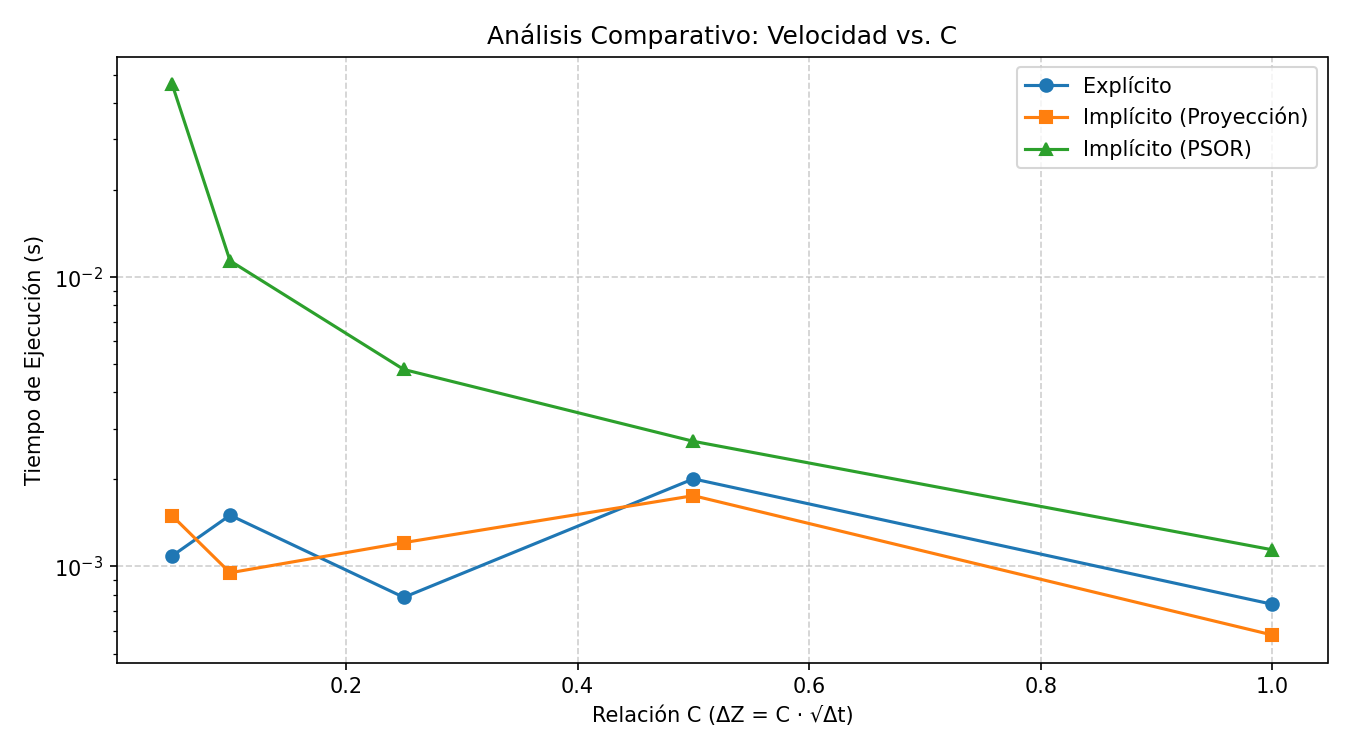
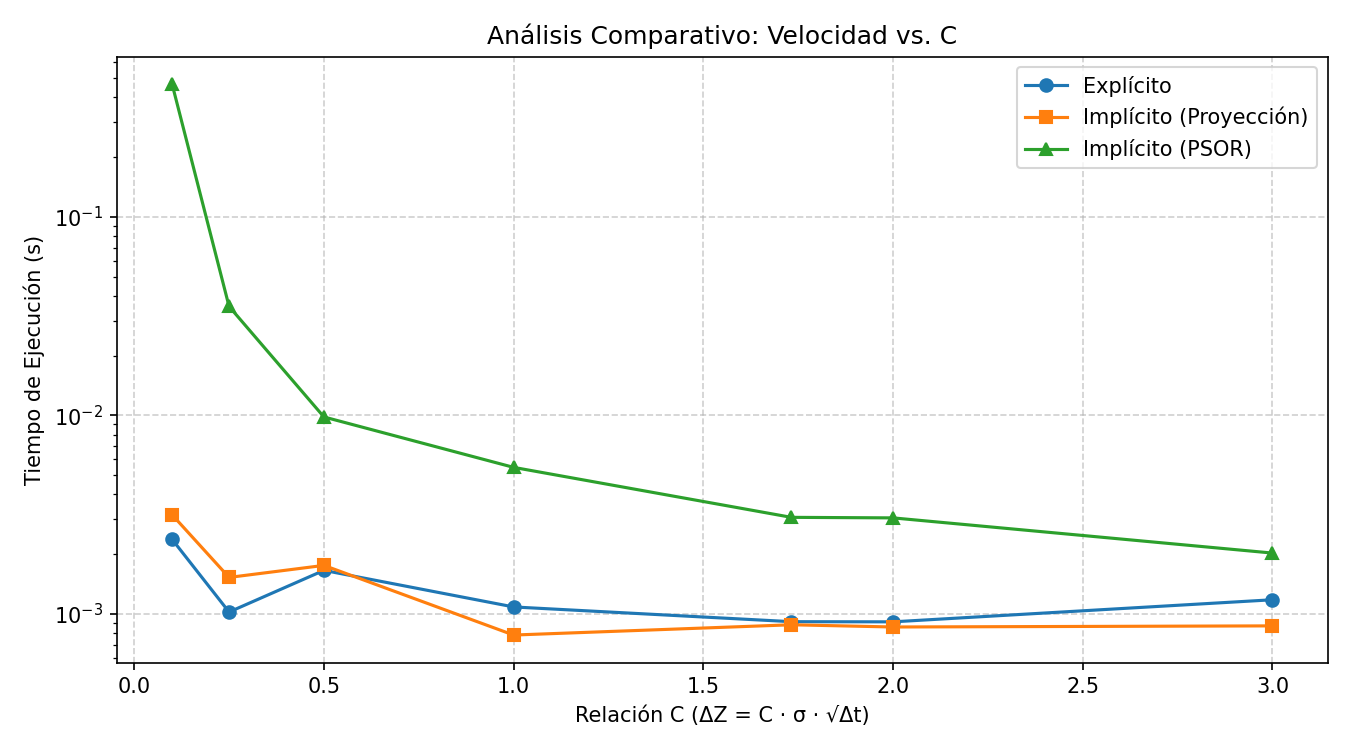
no fue el last commit

diff --git a/app.py b/app.py
@@ -82,6 +82,20 @@ def _domain_from_L(K, sigma, T, L):
     xmax = math.log(K) + L * sigma * math.sqrt(T)
     return xmin, xmax
 
+def _estimate_M_for_C(T, sigma, L, N, C):
+    """Estimación rápida de M a partir de C (coherente con ΔZ = C·√Δt).
+    width_x = xmax - xmin = 2*L*sigma*sqrt(T)
+    dx = C*sqrt(dt) = C*sqrt(T/N)
+    M ≈ ceil(width_x / dx)
+    """
+    if T <= 0 or N <= 0 or C <= 0 or sigma <= 0 or L <= 0:
+        return math.inf
+    width_x = 2.0 * L * sigma * math.sqrt(T)
+    dx = C * math.sqrt(T / N) * sigma
+    if dx <= 0:
+        return math.inf
+    return int(math.ceil(width_x / dx))
+
 def _bc_arrays_full(is_call, american, K, r, q, Smin, Smax, tau_vec):
     if is_call:
         left = np.zeros_like(tau_vec)
@@ -222,8 +236,25 @@ def run_experiment(K, T, r, sigma, q, S0, is_call, american, N, C_values, method
     }
 
     for C in C_values:
-        dx = C * math.sqrt(dt)
+        dx = C * sigma *  math.sqrt(dt)
         M = int(math.ceil((xmax - xmin) / dx))
+
+        # Rechazo suave: si M*N supera 1e6, marcamos NaN y continuamos
+        if M * N > 50_000_000:
+            if 'Explícito' in methods:
+                results['explicit']['price'].append(np.nan)
+                results['explicit']['time'].append(np.nan)
+            if 'Implícito (Proyección)' in methods:
+                results['implicit_proj']['price'].append(np.nan)
+                results['implicit_proj']['time'].append(np.nan)
+            if 'Implícito (PSOR)' in methods:
+                results['implicit_psor']['price'].append(np.nan)
+                results['implicit_psor']['time'].append(np.nan)
+            if 'BS Europeo' in methods:
+                price_bs = black_scholes_european(S0, K, T, r, sigma, q, is_call)
+                results['bs_european']['price'].append(price_bs)
+                results['bs_european']['time'].append(np.nan)
+            continue
 
         if 'Explícito' in methods:
             try:
@@ -417,16 +448,16 @@ if page == "Ejemplos":
 
     examples = {
         # Base y variaciones a partir del base
-        "base": dict(title="Base (Put Americano)", K=100.0, T=1.0, r=0.05, sigma=0.20, q=0.01, S0=100.0,
-                      is_call=False, american=True, N=1000, C_values=[0.05, 0.1, 0.25, 0.5, 1.0]),
-        "base_n100": dict(title="Base variando N=100", K=100.0, T=1.0, r=0.05, sigma=0.20, q=0.01, S0=100.0,
-                           is_call=False, american=True, N=100, C_values=[0.05, 0.1, 0.25, 0.5, 1.0]),
-        "base_n10000": dict(title="Base N=10000", K=100.0, T=1.0, r=0.05, sigma=0.20, q=0.01, S0=100.0,
-                                is_call=False, american=True, N=10000, C_values=[0.1, 0.25, 0.5, 1.0, 2.0]),
-        "base_s0_120": dict(title="Base variando S0=120", K=100.0, T=1.0, r=0.05, sigma=0.20, q=0.01, S0=120.0,
-                             is_call=False, american=True, N=1000, C_values=[0.05, 0.1, 0.25, 0.5, 1.0]),
-        "base_sigma_035": dict(title="Base variando σ=0.35", K=100.0, T=1.0, r=0.05, sigma=0.35, q=0.01, S0=100.0,
-                                is_call=False, american=True, N=1000, C_values=[0.05, 0.1, 0.25, 0.5, 1.0]),
+        "base": dict(title="Base (Put Americano)", K=100.0, T=1.0, r=0.05, sigma=0.30, q=0.01, S0=100.0,
+                      is_call=False, american=True, N=1000, C_values=[0.1, 0.25, 0.5, 1.0, 3**(1/2), 2.0, 3.0]),
+        "base_n100": dict(title="Base variando N=100", K=100.0, T=1.0, r=0.05, sigma=0.30, q=0.01, S0=100.0,
+                           is_call=False, american=True, N=100, C_values=[0.1, 0.25, 0.5, 1.0, 3**(1/2), 2.0, 3.0]),
+        "base_n10000": dict(title="Base N=10000", K=100.0, T=1.0, r=0.05, sigma=0.30, q=0.01, S0=100.0,
+                                is_call=False, american=True, N=10000, C_values=[0.25, 0.5, 1.0, 3**(1/2), 2.0, 3.0]),
+        "base_s0_120": dict(title="Base variando S0=120", K=100.0, T=1.0, r=0.05, sigma=0.30, q=0.01, S0=120.0,
+                             is_call=False, american=True, N=1000, C_values=[0.1, 0.25, 0.5, 1.0, 3**(1/2), 2.0, 3.0]),
+        "base_sigma_035": dict(title="Base variando σ=0.35", K=100.0, T=1.0, r=0.05, sigma=0.5, q=0.01, S0=100.0,
+                                is_call=False, american=True, N=1000, C_values=[0.1, 0.25, 0.5, 1.0, 3**(1/2), 2.0, 3.0]),
     }
 
     def image_paths(slug):
@@ -447,7 +478,7 @@ if page == "Ejemplos":
                     p['K'], p['T'], p['r'], p['sigma'], p['q'], p['S0'],
                     p['is_call'], p['american'], p['N'], tuple(p['C_values']), tuple(default_methods)
                 )
-                xlabel = 'Relación C (ΔZ = C · √Δt)'
+                xlabel = 'Relación C (ΔZ = C · σ · √Δt)'
                 fig1, fig2, fig3 = build_separate_figures(results, ref, xlabel)
                 fig1.savefig(p_price, dpi=150)
                 plt.close(fig1)
@@ -487,7 +518,7 @@ else:
         q = st.number_input("Dividendo continuo q", value=0.01, min_value=0.0, max_value=1.0, step=0.01, format="%.4f")
     with colB:
         S0 = st.number_input("Spot S0", value=105.0, min_value=0.01, step=1.0)
-        sigma = st.number_input("Volatilidad σ", value=0.20, min_value=0.0001, max_value=5.0, step=0.01, format="%.4f")
+        sigma = st.number_input("Volatilidad σ", value=0.3, min_value=0.0001, max_value=5.0, step=0.01, format="%.4f")
         T = st.number_input("Tiempo a vencimiento T (años)", value=1.0, min_value=0.001, max_value=10.0, step=0.1)
     with colC:
         style = st.selectbox("Tipo", ["Put Americano", "Call Americano", "Put Europeo", "Call Europeo"])
@@ -508,7 +539,19 @@ else:
     c_list = sorted(set([round(float(c), 4) for c in c_list]))
     st.write("C evaluados:", c_list)
 
+    # Validación anticipada M*N <= 1e6
+    invalid = []
+    for C in c_list:
+        M_est = _estimate_M_for_C(T, float(sigma), 6.0, int(N), float(C))
+        if M_est == math.inf or M_est * int(N) > 50_000_000:
+            invalid.append((C, M_est))
+    if invalid:
+        msg_lines = [f"- C={c}: M≈{(m if m!=math.inf else '∞')} → M*N>50_000_000" for c, m in invalid]
+        st.error("Las opciones elegidas exceden el límite de malla (M*N ≤ 10.000.000). Ajustá N o aumentá C.\n" + "\n".join(msg_lines))
+
     if st.button("Calcular con mis parámetros"):
+        if invalid:
+            st.stop()
         with st.spinner("Calculando…"):
             results, ref = run_experiment(
                 K, T, r, sigma, q, S0, is_call, american, int(N), tuple(c_list), METHODS_DEFAULT
